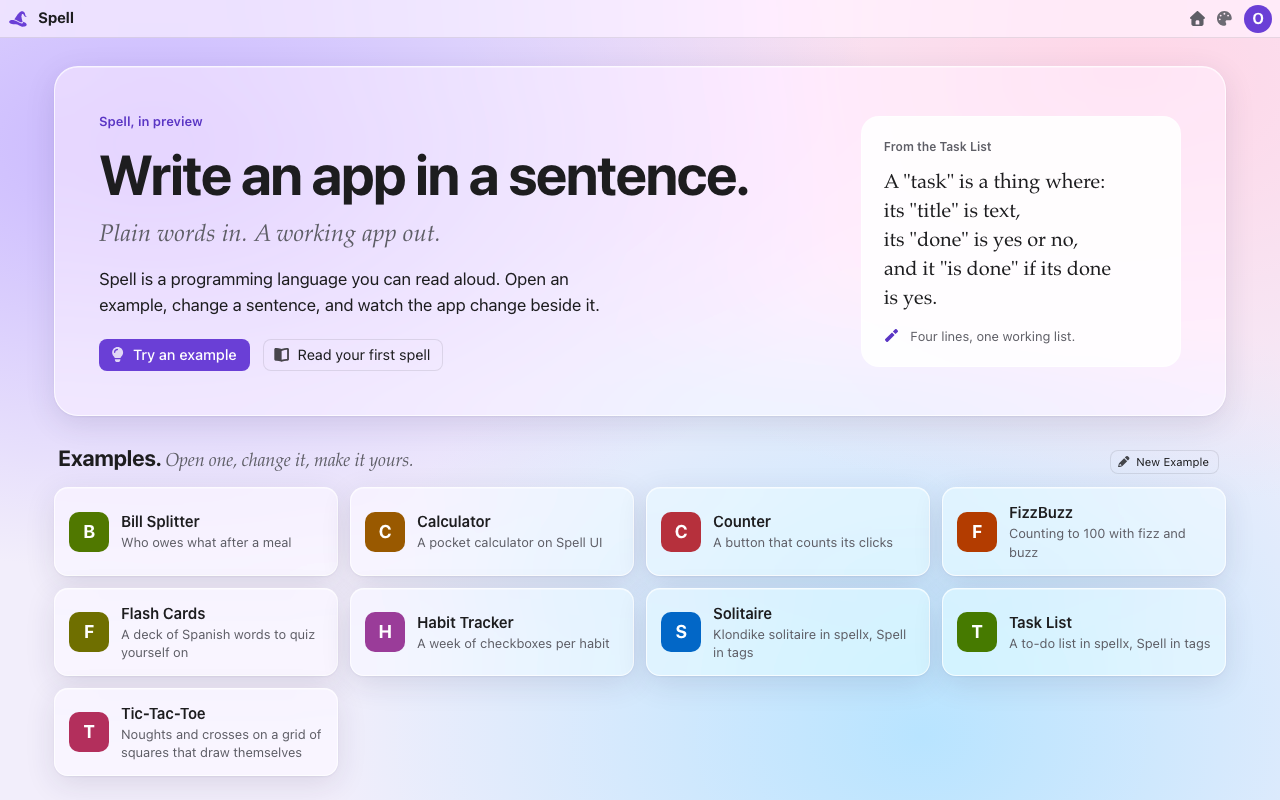
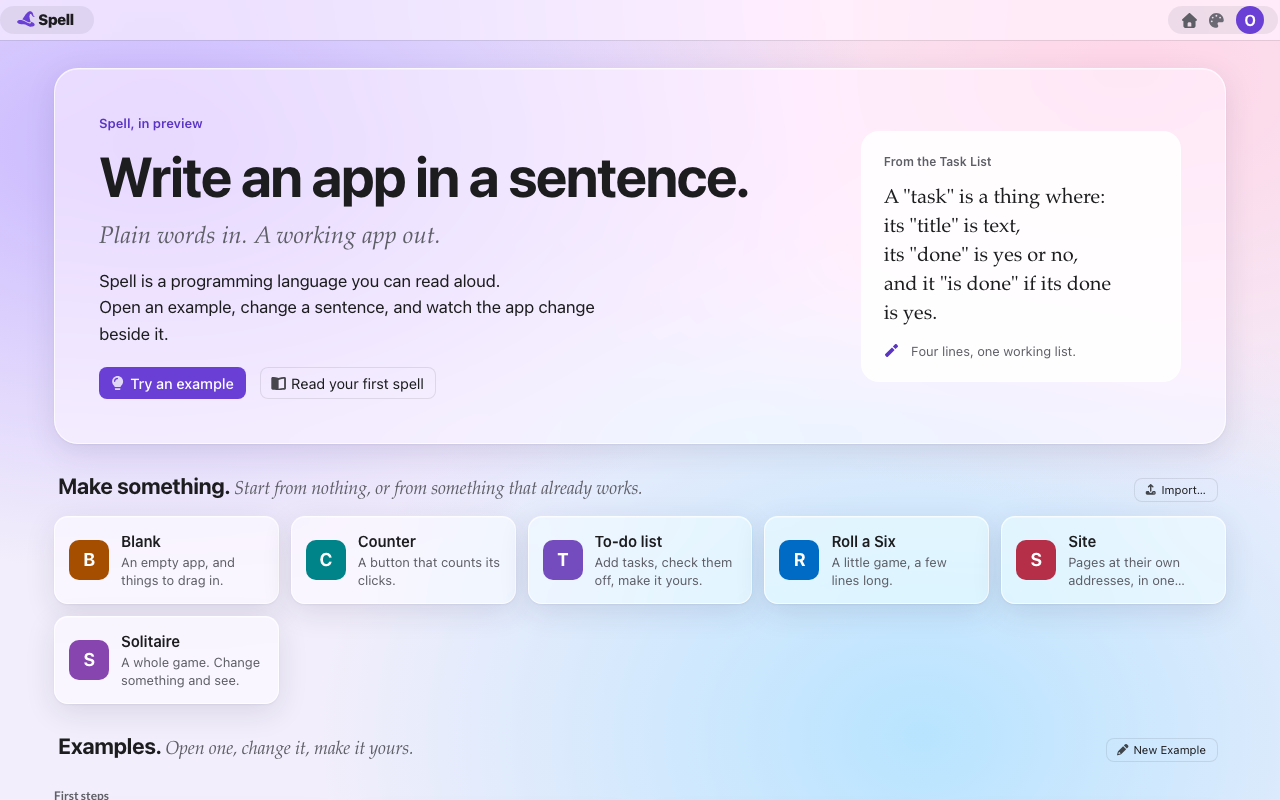
codemirror J47:  every App UI picture redrawn from today's editor (Monaco's and the old purple toolbars gone);  site:pictures draws the editor as Owen shows it, Debug with the Inspector open, its Program panel on Output, JavaScript or Sentence for the console, compiled code and tree pictures;  the f

diff --git a/app/app/scripts/site-pictures.ts b/app/app/scripts/site-pictures.ts
@@ -49,19 +49,30 @@ type Picture = {
   clip?: { x: number; y: number; width: number; height: number }
 }
 
-/** Debug, its Program panel showing the compiled JavaScript:  where `<OutputRoot>` is drawn. */
-const DEBUG_JAVASCRIPT = { programPanel: "true", programTab: "javascript" }
+/**
+ * The editor as Owen shows it:  Debug, its Program panel open under the code, and the Inspector open.
+ * - Its help seen, so it shows the app's parts, not how to use it.
+ */
+const DEBUG = { programPanel: "true", inspector: "true", "inspector:helpSeen": "true" }
+
+/** Debug, its Program panel on `tab`:  where the console, the compiled code and the sentence tree are drawn. */
+const debugOn = (tab: "output" | "javascript" | "tree") => ({ ...DEBUG, programTab: tab })
 
 /** Every picture, by page. */
 const PICTURES: Picture[] = [
   { name: "SpellPage", page: "", selector: ".SpellPage" },
-  { name: "AppRoot", page: PROJECT, selector: ".AppRoot" },
-  { name: "AppContainer", page: PROJECT, selector: ".AppContainer" },
+  { name: "AppRoot", page: PROJECT, prefs: DEBUG, selector: ".AppRoot" },
+  { name: "AppContainer", page: PROJECT, prefs: DEBUG, selector: ".AppContainer" },
   { name: "chrome", page: PROJECT, selector: ".AppMenu" },
   { name: "InputEditor", page: PROJECT, selector: ".InputRoot" },
-  { name: "OutputEditor", page: PROJECT, prefs: DEBUG_JAVASCRIPT, selector: ".OutputRoot" },
-  { name: "CodeMirrorEditor", page: PROJECT, prefs: DEBUG_JAVASCRIPT, selector: ".OutputEditor .CodeMirrorEditor" },
-  { name: "ConsoleViewer", page: PROJECT, selector: ".ConsoleRoot" },
+  { name: "OutputEditor", page: PROJECT, prefs: debugOn("javascript"), selector: ".OutputRoot" },
+  {
+    name: "CodeMirrorEditor",
+    page: PROJECT,
+    prefs: debugOn("javascript"),
+    selector: ".OutputEditor .CodeMirrorEditor"
+  },
+  { name: "ConsoleViewer", page: PROJECT, prefs: debugOn("output"), selector: ".ConsoleRoot" },
   {
     name: "Actions",
     page: PROJECT,
@@ -71,8 +82,13 @@ const PICTURES: Picture[] = [
   {
     name: "TreeViewer",
     page: PROJECT,
+    prefs: debugOn("tree"),
     prepare: async (page) => {
-      await page.locator(".InputEditor .cm-line").nth(1).click()
+      // the first line, "a card is a draggable two sided view":  near its start, so the code doesn't scroll sideways
+      await page
+        .locator(".InputEditor .cm-line")
+        .first()
+        .click({ position: { x: 60, y: 8 } })
       await page.waitForTimeout(1500)
     },
     selector: ".TreeRoot"
@@ -81,20 +97,16 @@ const PICTURES: Picture[] = [
     name: "FileDropdown",
     page: PROJECT,
     prepare: async (page) => {
-      // the file tabs turn into the dropdown in a narrow code column (`FileTabs.css`)
+      // a narrow tab row puts most tabs away:  its all-files button, at its end, lists every file
       await page.locator(".FileTabs").evaluate((tabs: HTMLElement) => (tabs.style.width = "260px"))
-      await openDropdown(page, "ui-dropdown.FileDropdown")
+      await openDropdown(page, ".FileTabs button.all-items")
     },
     clip: { x: 0, y: 30, width: 720, height: 420 }
   },
   {
     name: "Chooser",
     page: PROJECT,
-    prepare: async (page) => {
-      // the item host is `display: contents`:  click it directly
-      await page.locator('.ConsoleRoot .PanelMenu ui-item[appearance~="link"]').nth(4).dispatchEvent("click")
-      await page.waitForTimeout(1200)
-    },
+    prepare: (page) => showInEditor(page, "chooser"),
     clip: { x: 240, y: 150, width: 800, height: 500 }
   },
   {
@@ -170,15 +182,26 @@ async function openDropdown(page: Page, selector: string): Promise<void> {
   await page.waitForTimeout(800)
 }
 
-/** Show a notice or an error over the page, through the editor's debug global (`src/debug.ts`). */
-async function showInEditor(page: Page, what: "notice" | "error"): Promise<void> {
+/** Show a notice, an error or the chooser over the page, through the editor's debug global (`src/debug.ts`). */
+async function showInEditor(page: Page, what: "notice" | "error" | "chooser"): Promise<void> {
   await page.evaluate((what) => {
     const editor = (globalThis as unknown as { editor: EditorMessages }).editor
     if (what === "notice") editor.showNotice("File saved.")
-    else editor.showError(new Error("Couldn't load Card.spell:  the server didn't answer."))
+    else if (what === "error") editor.showError(new Error("Couldn't load Card.spell:  the server didn't answer."))
+    // not awaited:  it answers once someone picks
+    else
+      /* if (what === "chooser") */ void editor.choose({
+        header: "Pick one",
+        message: "Message",
+        options: ["A", "B", "C"]
+      })
   }, what)
-  await page.waitForTimeout(800)
+  await page.waitForTimeout(1200)
 }
 
-/** The two calls of the editor's debug global these pictures make. */
-type EditorMessages = { showNotice(notice: string): void; showError(error: unknown): void }
+/** The calls of the editor's debug global these pictures make. */
+type EditorMessages = {
+  showNotice(notice: string): void
+  showError(error: unknown): void
+  choose(props: { header: string; message: string; options: string[] }): Promise<unknown>
+}

diff --git a/app/app/docs/Chooser.html b/app/app/docs/Chooser.html
@@ -57,10 +57,7 @@
 
           <ui-section id="1-what-it-looks-like" label="1. What it looks like" sticky="stack" collapsible dividing open="false">
             <ui-icon slot="icon" name="image"></ui-icon>
-            <p>
-              Over the editor, opened from the "choose" button on the console's toolbar, a demo: "Pick one" of A, B and
-              C.
-            </p>
+            <p>Over the editor, asked for by <code>editor.choose()</code>: "Pick one" of A, B and C.</p>
             <ui-image
               src="_images/Chooser.png"
               alt="A dialog headed Pick one: a message, three radio buttons A, B and C, then Cancel and OK"
@@ -76,27 +73,9 @@
           <ui-section id="2-using-it" label="2. Using it" sticky="stack" collapsible dividing open="false">
             <ui-icon slot="icon" name="code"></ui-icon>
             <p>
-              Nobody draws it in JSX: ask the editor, with <code>editor.choose()</code>, and wait for the answer. The
-              console's toolbar has two demo buttons that do:
+              Nobody draws it in JSX: ask the editor, with <code>editor.choose()</code>, and wait for the answer.
+              <code>Actions.choose</code> is a button that does, though no toolbar shows one today.
             </p>
-            <ui-accordion class="spell-code" appearance="styled">
-              <ui-title>ConsoleViewer.tsx · the two demo buttons · 9 lines</ui-title>
-              <ui-content>
-                <ui-code language="typescript"
-                  ><script type="text/plain">
-                    <Actions.choose title="" header="Pick one" message="Message" options={["A", "B", "C"]} />
-                    <Actions.choose
-                      title=""
-                      header="Pick many"
-                      message="Message"
-                      options={{ a: "Option A", b: "Option B", c: "Option C" }}
-                      multiple
-                      defaultValue={["a", "b"]}
-                    />
-                  </script></ui-code
-                >
-              </ui-content>
-            </ui-accordion>
             <ui-accordion class="spell-code" appearance="styled">
               <ui-title>From code · asking the editor · 1 line</ui-title>
               <ui-content>

diff --git a/app/app/docs/OutputEditor.html b/app/app/docs/OutputEditor.html
@@ -57,11 +57,17 @@
           <ui-section id="1-what-it-looks-like" label="1. What it looks like" sticky="stack" collapsible dividing open="false">
             <ui-icon slot="icon" name="image"></ui-icon>
             <p>
-              <code>OutputRoot</code> on Solitaire's Card.spell: its "Javascript Output" toolbar, then the javascript.
+              <code>OutputRoot</code> on Solitaire's Card.spell, as Debug draws it in the Program panel's JavaScript
+              tab: the javascript alone, without its toolbar.
+            </p>
+            <p>
+              <a href="CodeMirrorEditor.html" target="src-packages-app-docs-codemirroreditor-html">CodeMirrorEditor</a>
+              shows the same picture: this page is about the tab and what it shows, that one about the code editor
+              inside it, which every code pane in the app uses.
             </p>
             <ui-image
               src="_images/OutputEditor.png"
-              alt="The Javascript Output pane:  the compiled javascript of Card.spell, starting export class Card extends Thing"
+              alt="The compiled javascript of Card.spell, its lines numbered:  a comment, then export class Card extends TwoSidedView"
               appearance="bordered rounded"
             >
             </ui-image>

diff --git a/app/app/docs/chrome.html b/app/app/docs/chrome.html
@@ -62,12 +62,12 @@
             <p>
               The editor page's AppMenu, in three sections: the project's menu (Spell's hat, its name) and File · Edit ·
               View · Run · Help on the left; Run | Edit in the middle; on the right, one group of icons, their glyphs 12px
-              apart: in Edit, Inspect app and the Inspector's menu, a thin line, then Restart, the theme menu and your
-              avatar.
+              apart: the code's icon, the compiled code's, Inspect App and Add to the app; then, at the far right,
+              Restart, the theme menu and your avatar.
             </p>
             <ui-image
               src="_images/chrome.png"
-              alt="The editor's top bar: Spell's hat and the Solitaire menu, then File, Edit, View, Run and Help on the left; Run and Edit in the middle; Inspect app, the Inspector, Restart, the theme menu and an avatar on the right"
+              alt="The editor's top bar: Spell's hat and the Solitaire menu, then File, Edit, View, Run and Help on the left; Run and Edit in the middle, then the code, compiled code, Inspect App and Add icons; Restart, the theme menu and an avatar on the right"
               appearance="bordered rounded"
             ></ui-image>
             <p class="meta">

diff --git a/app/app/docs/TreeViewer.html b/app/app/docs/TreeViewer.html
@@ -56,12 +56,13 @@
           <ui-section id="1-what-it-looks-like" label="1. What it looks like" sticky="stack" collapsible dividing open="false">
             <ui-icon slot="icon" name="image"></ui-icon>
             <p>
-              The editor's "Spell Tree" pane, with the cursor on the line of Solitaire's Card.spell that declares the
-              Card type: a statement group, holding the type, then the type it's a kind of (the top of a taller tree).
+              The Program panel's Sentence tab, in Debug, with the cursor on the first line of Solitaire's Card.spell,
+              which declares the card type: a statement group holding a comment and the type, then the type it's a
+              kind of and its first member (the top of a taller tree).
             </p>
             <ui-image
               src="_images/TreeViewer.png"
-              alt="The Spell Tree pane:  Statement group, then Type Card, then superType"
+              alt="The Sentence tab:  Statement group, holding Comment and Type Card;  under Type Card, Type TwoSidedView and Static elementTag"
               appearance="bordered rounded"
             >
             </ui-image>

diff --git a/app/app/docs/AppRoot.html b/app/app/docs/AppRoot.html
@@ -56,12 +56,13 @@
           <ui-section id="1-what-it-looks-like" label="1. What it looks like" sticky="stack" collapsible dividing open="false">
             <ui-icon slot="icon" name="image"></ui-icon>
             <p>
-              The editor's App pane: the purple toolbar is its AppToolbar, and under it, the program draws in an
-              <a href="AppContainer.html" target="src-packages-app-docs-appcontainer-html">AppContainer</a>.
+              The editor's App pane, with Solitaire running. The editor draws it without its AppToolbar, so it's
+              just the <a href="AppContainer.html" target="src-packages-app-docs-appcontainer-html">AppContainer</a> the
+              program draws in, and the same picture as that page's.
             </p>
             <ui-image
               src="_images/AppRoot.png"
-              alt="The App pane: a purple toolbar with Restart and Publish, over a game of Klondike Solitaire"
+              alt="The App pane:  a game of Spell Solitaire, its own dark header with a menu and the score over the cards"
               appearance="bordered rounded"
             ></ui-image>
             <p class="meta">

diff --git a/app/app/docs/SpellPage.html b/app/app/docs/SpellPage.html
@@ -56,12 +56,12 @@
           <ui-section id="1-what-it-looks-like" label="1. What it looks like" sticky="stack" collapsible dividing open="false">
             <ui-icon slot="icon" name="image"></ui-icon>
             <p>
-              The project chooser, the page the editor opens on. The SpellPage is the dark grey box filling the window:
-              the violet menu across its top, then the white card of projects.
+              The home page, the page the editor opens on. The SpellPage is the box filling the window: the top bar
+              across it, then the page's sections, "Make something" and "Examples" among them, a card for each project.
             </p>
             <ui-image
               src="_images/SpellPage.png"
-              alt="The project chooser: a violet menu over a dark page holding a white card of projects, examples, guides and test fixtures"
+              alt="The home page:  a top bar, then Write an app in a sentence, then Make something, a card for each way to start, then Examples"
               appearance="bordered rounded"
             ></ui-image>
             <p class="meta">

diff --git a/app/app/docs/FileDropdown.html b/app/app/docs/FileDropdown.html
@@ -55,10 +55,14 @@
 
           <ui-section id="1-what-it-looks-like" label="1. What it looks like" sticky="stack" collapsible dividing open="false">
             <ui-icon slot="icon" name="image"></ui-icon>
-            <p>The code column, too narrow for its file tabs, with the Solitaire example's files dropped down:</p>
+            <p>
+              The code column, too narrow for its file tabs, with the Solitaire example's files dropped down. The editor
+              draws this list from its tab row now (the button at its end), not from <code>FileDropdown</code>, which
+              nothing draws today.
+            </p>
             <ui-image
               src="_images/FileDropdown.png"
-              alt="The File dropdown open over the editor, listing Card.spell, Deck.spell, Pile.spell, Solitaire.spell and styles.css"
+              alt="The tab row's file list open over the editor:  Card.spell, ticked, then Pile.spell, Deck.spell, Solitaire.spell, styles.css and Card.editor.spell"
               appearance="bordered rounded"
             >
             </ui-image>

diff --git a/app/app/docs/ConsoleViewer.html b/app/app/docs/ConsoleViewer.html
@@ -56,12 +56,12 @@
           <ui-section id="1-what-it-looks-like" label="1. What it looks like" sticky="stack" collapsible dividing open="false">
             <ui-icon slot="icon" name="image"></ui-icon>
             <p>
-              The editor's "Program Output" pane, just after Solitaire compiled and ran: its toolbar, then its lines, in
-              groups that open and close.
+              The Program panel's Output tab, in Debug, just after Solitaire compiled and ran its tests: its lines, in
+              groups that open and close. The panel draws it without its toolbar.
             </p>
             <ui-image
               src="_images/ConsoleViewer.png"
-              alt="The Program Output pane:  its toolbar, then Compiling, Compiled to javascript and Executing example groups"
+              alt="The Output tab:  Compiling, Compiled to javascript and Executing example groups, each test passed, then Example executed without errors"
               appearance="bordered rounded"
             >
             </ui-image>

diff --git a/app/app/docs/Actions.html b/app/app/docs/Actions.html
@@ -57,12 +57,12 @@
           <ui-section id="1-what-it-looks-like" label="1. What it looks like" sticky="stack" collapsible dividing open="false">
             <ui-icon slot="icon" name="image"></ui-icon>
             <p>
-              The top bar's File menu: Save, Revert File and New File are actions, drawn as menu items, each with its
-              key.
+              The top bar's File menu: New Spell File, Save and Discard Changes are actions, drawn as menu items, each
+              with its key.
             </p>
             <ui-image
               src="_images/Actions.png"
-              alt="The File menu open under the top bar: Save, Revert File, New File, Duplicate, Rename and Delete File, with their keys"
+              alt="The File menu open under the top bar:  New Spell File, New CSS File, Save, Discard Changes, AutoSave and Duplicate File, with their keys"
               appearance="bordered rounded"
             ></ui-image>
             <p class="meta">

diff --git a/app/app/docs/AppContainer.html b/app/app/docs/AppContainer.html
@@ -56,12 +56,12 @@
           <ui-section id="1-what-it-looks-like" label="1. What it looks like" sticky="stack" collapsible dividing open="false">
             <ui-icon slot="icon" name="image"></ui-icon>
             <p>
-              The editor's App pane without its toolbar: the white, padded, scrolling box, with the Solitaire example
-              drawn in it.
+              The editor's App pane without its toolbar, as the editor draws it: the scrolling box, with the
+              Solitaire example filling it.
             </p>
             <ui-image
               src="_images/AppContainer.png"
-              alt="A white box holding a game of Klondike Solitaire"
+              alt="A box filled by a game of Spell Solitaire:  its dark header, then the cards on green"
               appearance="bordered rounded"
             ></ui-image>
             <p class="meta">

diff --git a/app/app/docs/CodeMirrorEditor.html b/app/app/docs/CodeMirrorEditor.html
@@ -60,8 +60,12 @@
           <ui-section id="1-what-it-looks-like" label="1. What it looks like" sticky="stack" collapsible dividing open="false">
             <ui-icon slot="icon" name="image"></ui-icon>
             <p>
-              The one in the editor's "Javascript Output" pane, now the Program panel's JavaScript tab: Solitaire's
-              Card.spell, compiled.
+              The one in the Program panel's JavaScript tab, in Debug: Solitaire's Card.spell, compiled, read only, its
+              lines numbered.
+            </p>
+            <p>
+              <a href="OutputEditor.html" target="src-packages-app-docs-outputeditor-html">OutputEditor</a> shows the
+              same picture: that page is about the tab, this one about the code editor in it.
             </p>
             <ui-image
               src="_images/CodeMirrorEditor.png"
